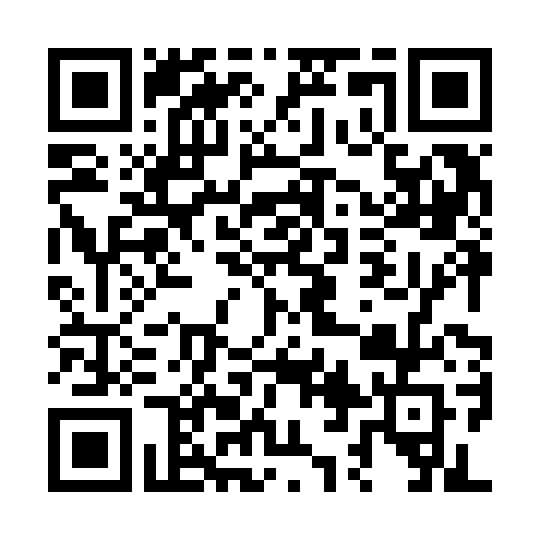
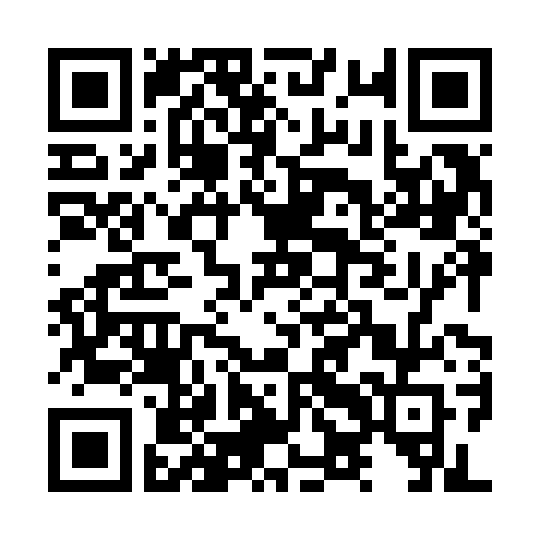
feat: /qr desktop viewer page — pop a scannable QR on the Mac screen
loopback-only (same guard as /qr.png), 60s auto-refresh keeps the live
pairing and silently re-mints on expiry; shows short code + TTL.
Fixes the flow gap: URLs in a terminal force typing — now the screen IS
the QR, and terminal users get ASCII art in a real monospace font.

Changed region(s): [[0.0889, 0.0889, 0.7407, 0.9185], [0.5926, 0.237, 0.6222, 0.2667]]

diff --git a/src/gateway.js b/src/gateway.js
@@ -57,7 +57,7 @@ function readBody(req, limitBytes) {
 export function createGateway({
   auth, limiter, failureBan, target, log = () => {},
   pairing = null, pairingPage = '', pairLimiter = null, cookieMaxAgeSeconds = 30 * 86_400,
-  qrImage = null,
+  qrImage = null, qrPage = null,
 }) {
   const sockets = new Set()
   let server = null
@@ -66,17 +66,25 @@ export function createGateway({
   function handlePairingRoute(req, res) {
     if (pairing === null) return false
     const path = req.url.split('?', 1)[0]
-    if (path !== '/pair' && path !== '/pair/' && path !== '/pair/challenge' && path !== '/pair/verify' && path !== '/qr.png') return false
+    if (path !== '/pair' && path !== '/pair/' && path !== '/pair/challenge' && path !== '/pair/verify' && path !== '/qr.png' && path !== '/qr') return false
 
     // /qr.png exposes the LIVE pairing image — desktop chat only. Loopback
     // source AND no proxy chain: localtunnel forwards arrive on loopback
     // sockets but carry x-forwarded-for, so tunnelled requests never see it.
-    if (path === '/qr.png') {
+    if (path === '/qr.png' || path === '/qr') {
       const viaLoopback = LOOPBACK.test(clientIp(req))
       const viaProxy = req.headers['x-forwarded-for'] !== undefined
       if (!viaLoopback || viaProxy || typeof qrImage !== 'function') {
         plainResponse(res, 403, {}, 'forbidden')
         return true
+      }
+      if (path === '/qr' && typeof qrPage === 'function') {
+        const html = qrPage()
+        if (html !== null) {
+          res.writeHead(200, { 'content-type': 'text/html; charset=utf-8', 'cache-control': 'no-store' })
+          res.end(html)
+          return true
+        }
       }
       const png = qrImage()
       if (png === null) {

diff --git a/src/index.js b/src/index.js
@@ -107,6 +107,13 @@ export function apply(ctx, config) {
           const pairing = currentOrMint()
           return renderPng(pairingUrl(pairing))
         },
+    qrPage: pairingService === null
+      ? null
+      : () => {
+          const pairing = currentOrMint()
+          const seconds = Math.max(0, Math.round((pairing.expiresAt - Date.now()) / 1000))
+          return QR_PAGE_HTML(pairingUrl(pairing), pairing.shortCode, seconds)
+        },
   })
 
   ctx.tools.register(defineForkSessionTool(ctx))
@@ -180,4 +187,21 @@ export function apply(ctx, config) {
     gateway.close()
     advertiser?.stop()
   })
+}
+
+
+/** Loopback-only QR viewer page: `open http://127.0.0.1:<port>/qr` puts a
+ *  scannable image on the desktop screen — the phone scans the monitor. */
+function QR_PAGE_HTML(url, shortCode, secondsLeft) {
+  return `<!doctype html><html><head><meta charset="utf-8"><meta name="viewport" content="width=device-width,initial-scale=1">
+<title>DSH Remote Link 配对</title>
+<meta http-equiv="refresh" content="60">
+<style>body{margin:0;display:flex;flex-direction:column;align-items:center;background:#111;color:#eee;font-family:system-ui;padding:24px}
+h1{font-size:18px;font-weight:600}img{width:min(70vmin,520px);image-rendering:pixelated}
+.short{font-size:28px;letter-spacing:8px;margin:16px 0 4px}small{color:#888}</style></head>
+<body><h1>DSH Remote Link — 手机扫码配对</h1>
+<img src="/qr.png" alt="配对二维码">
+<div class="short">${shortCode}</div>
+<small>短码备用 · 本配对 ${secondsLeft}s 内有效 · 页面每 60s 自动刷新（同码续期，过期自动换新）</small>
+</body></html>`
 }
